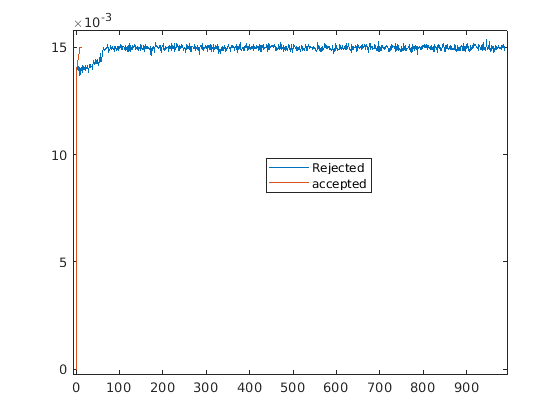
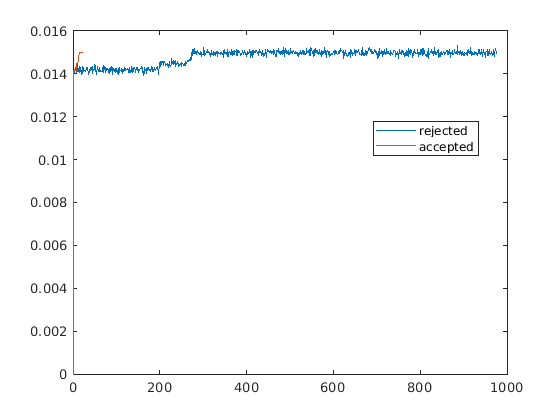
New changes

diff --git a/MCMC/MCMC_v4/MH_online.m b/MCMC/MCMC_v4/MH_online.m
@@ -3,7 +3,7 @@
 close all;
 clear;
 
-SNR_db = 40;                % Noise is added with a given SNR in dB
+SNR_db = 20;                % Noise is added with a given SNR in dB
 SNR = 10^(SNR_db/10);       % SNR in linear scale
 
 
